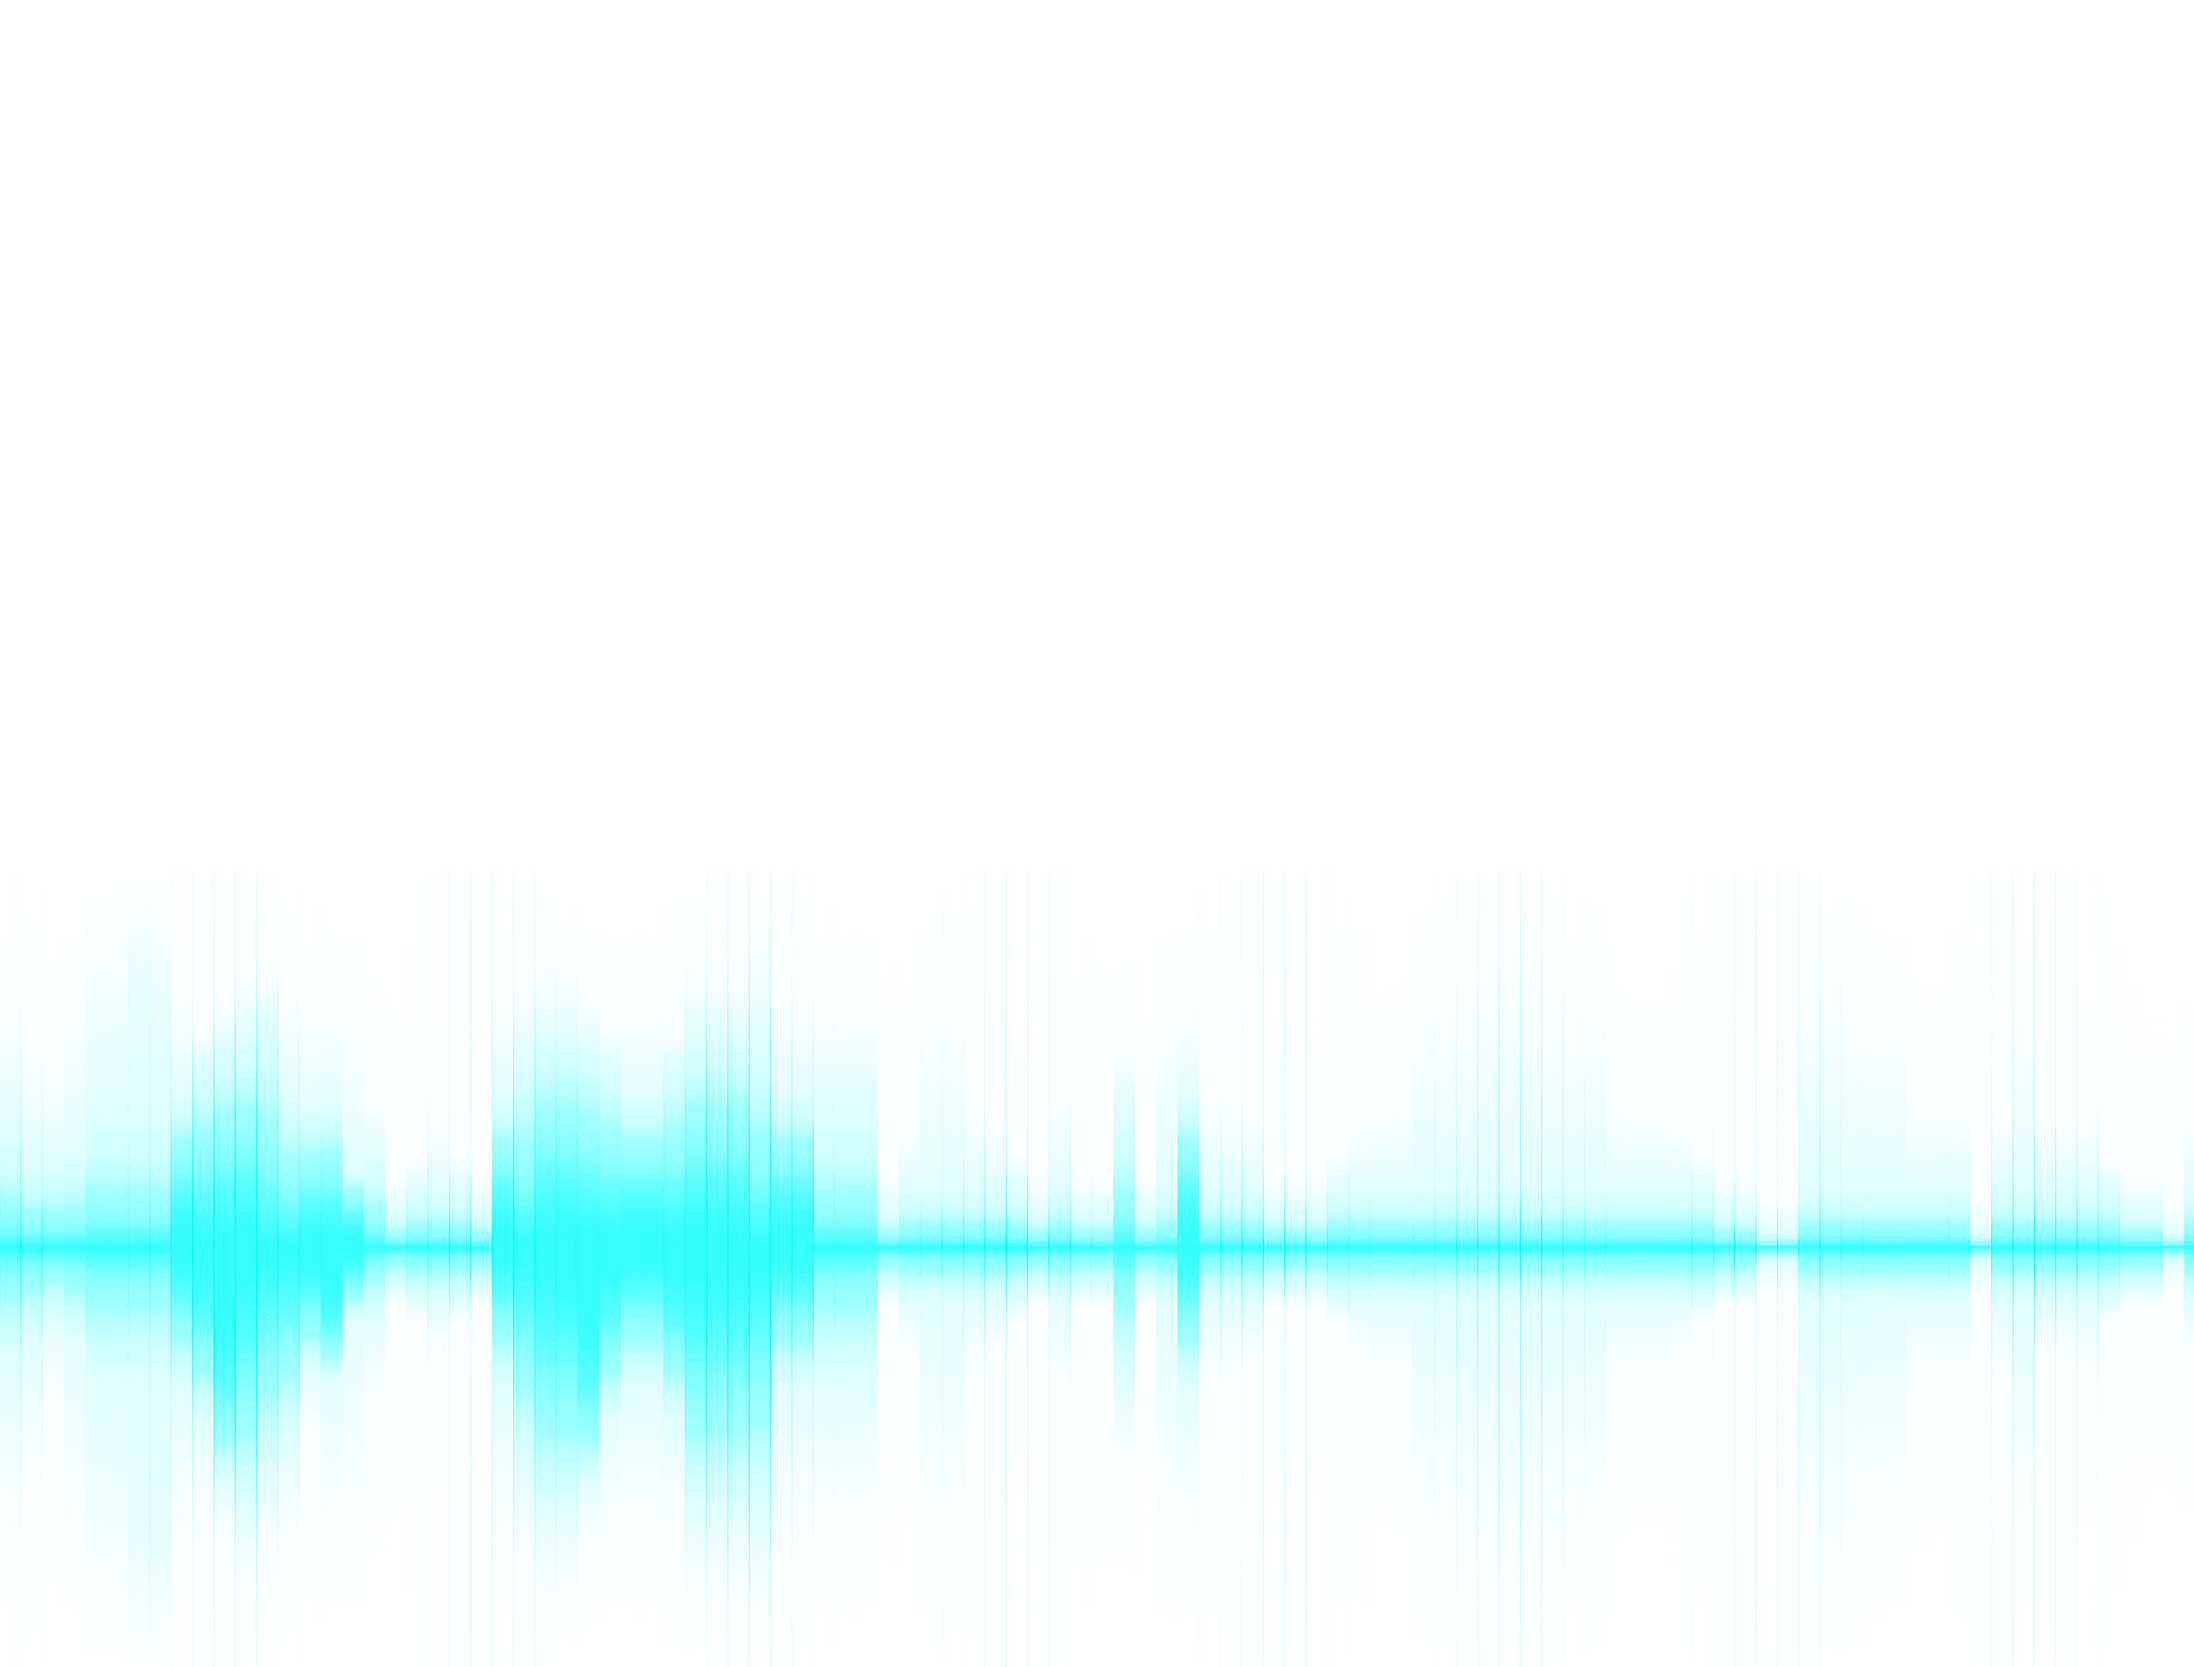
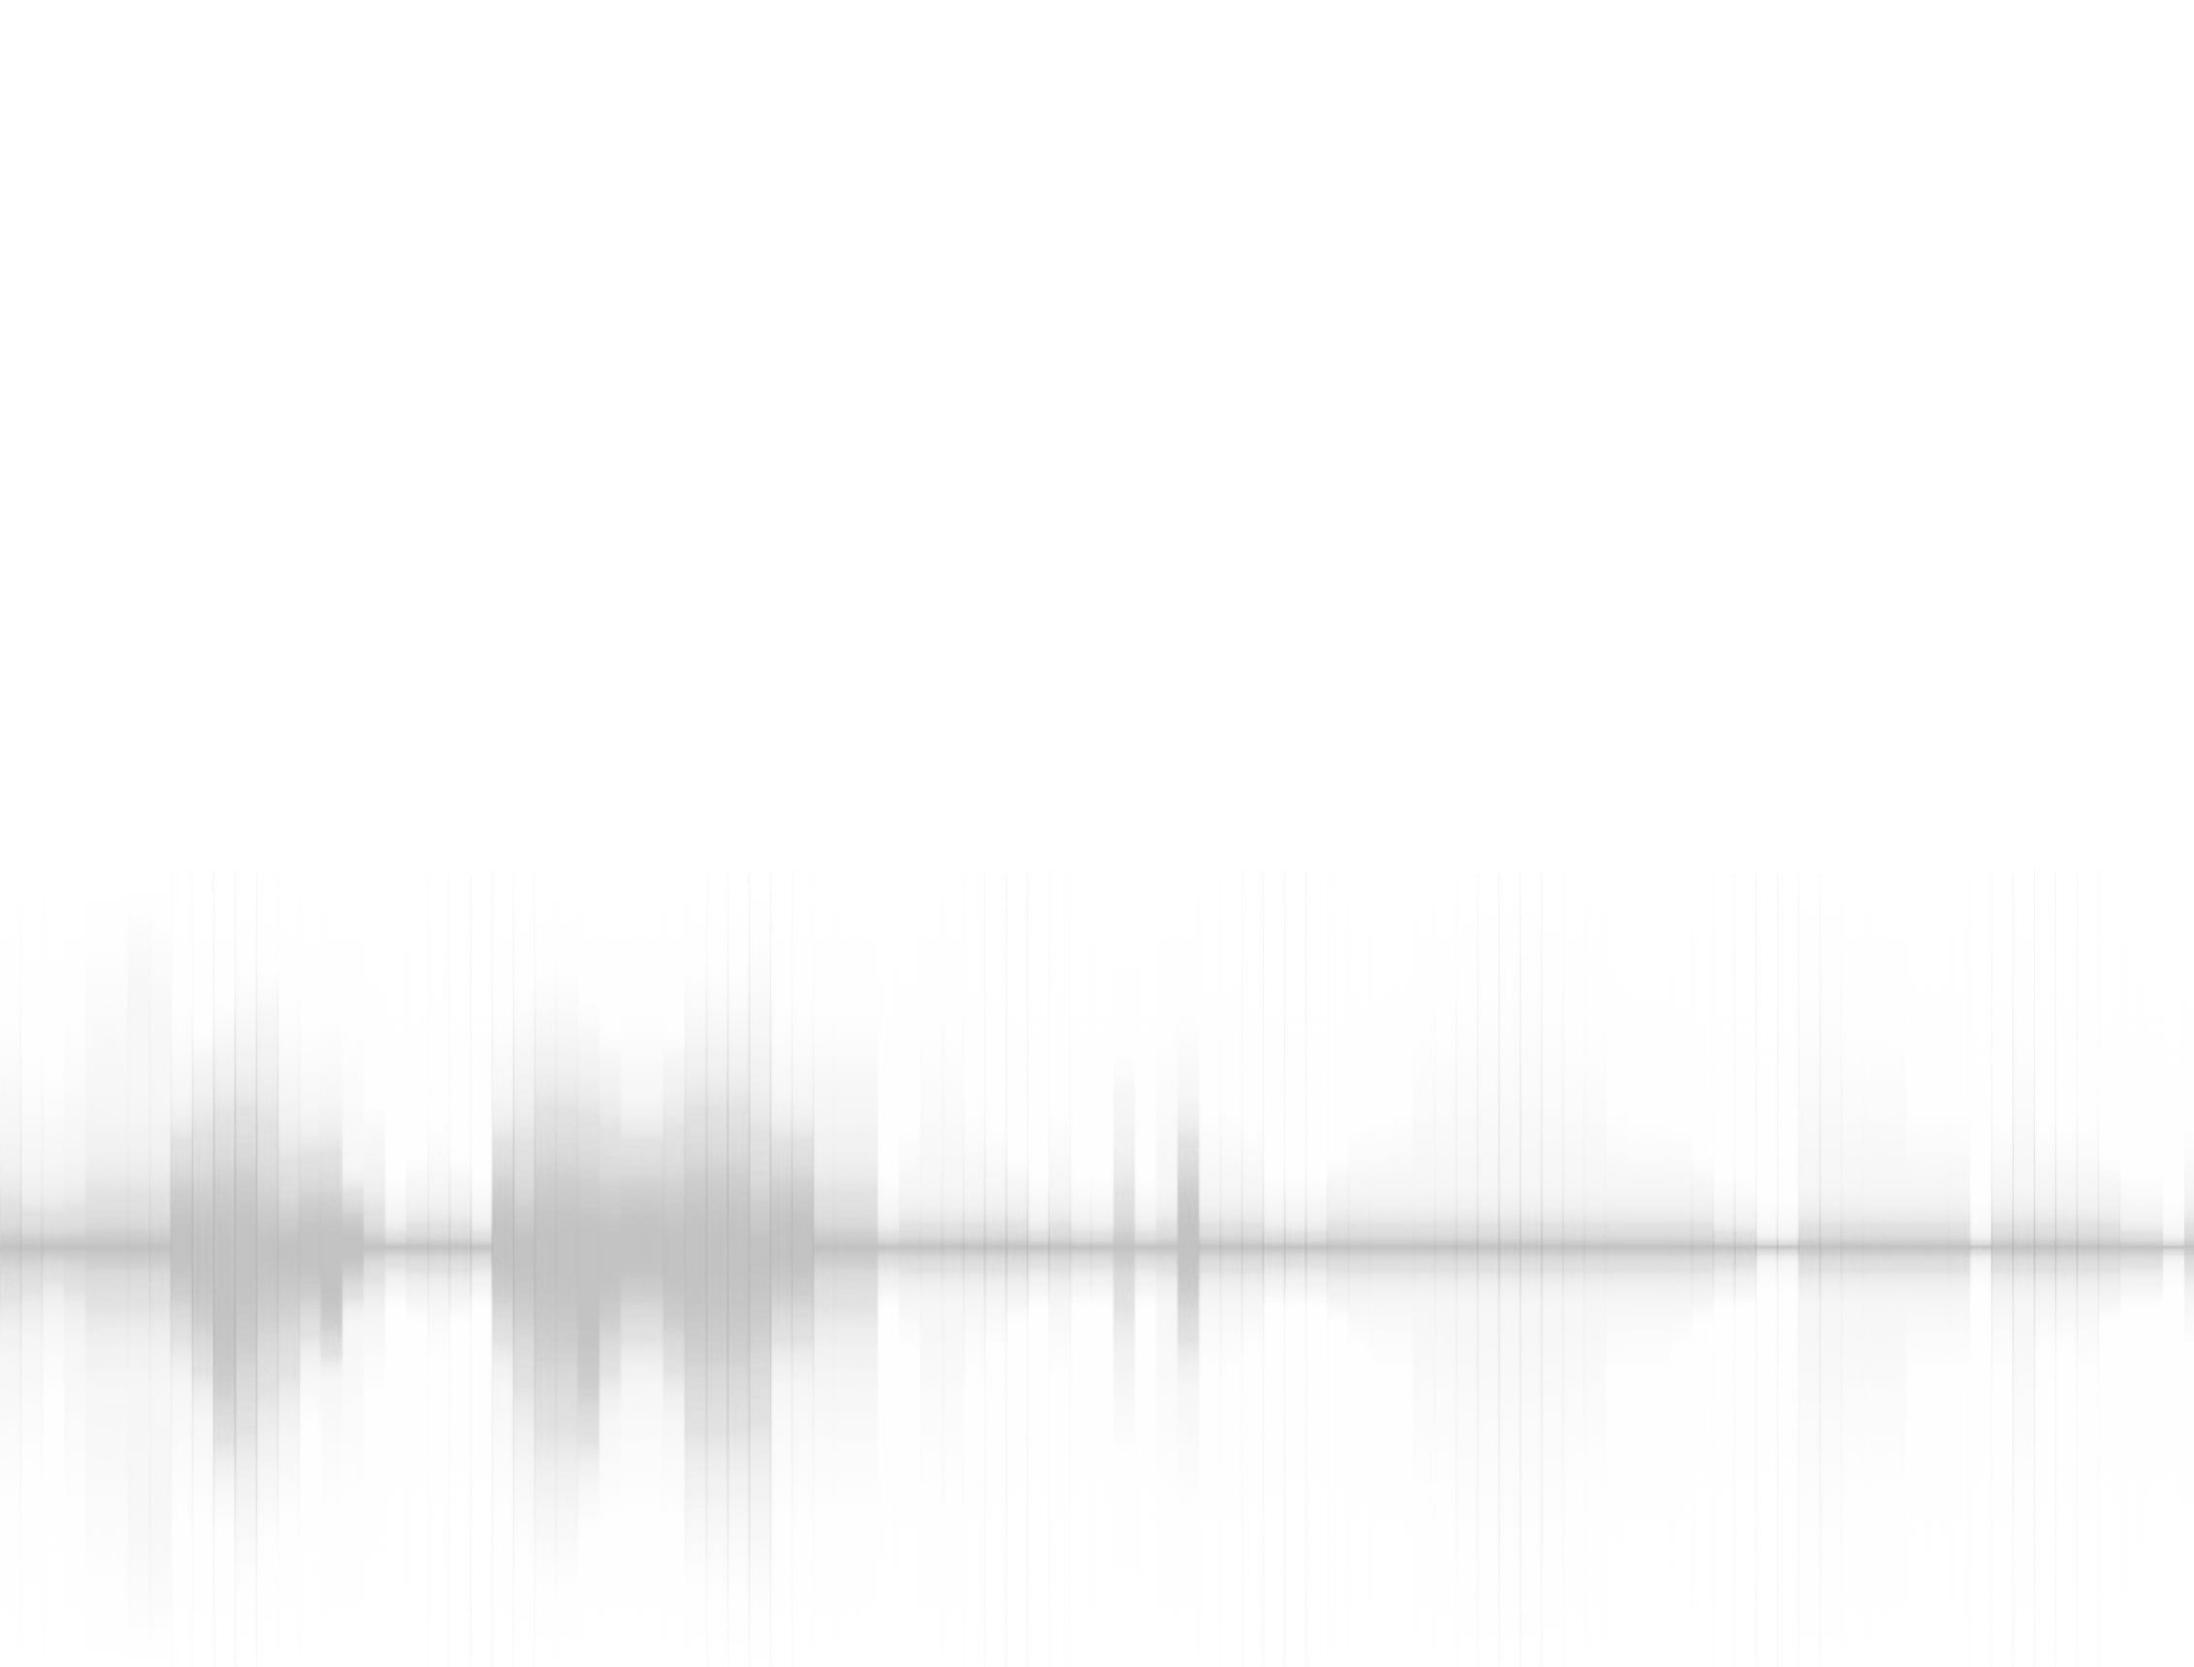
commented out wave functionality for now

Changed region(s): [[0.0, 0.6166, 1.0, 0.925]]

diff --git a/src/js/wave.js b/src/js/wave.js
@@ -1,39 +1,47 @@
+// Special thanks to this video for walking through the code: https://www.youtube.com/watch?v=IBHpSkGZtNM
 // Create a new instance of an audio object and adjust some of its properties
 var audio = new Audio();
 audio.src = 'Eulogy.mp3';
 audio.controls = true;
 audio.loop = true;
-audio.autoplay = true;
+audio.autoplay = true;  // automatically plays upon page load
+// audio.muted = true;
+
 // Establish all variables that your Analyser will use
 var canvas, ctx, source, context, analyser, fbc_array, bars, bar_x, bar_width, bar_height;
+
 // Initialize the MP3 player after the page loads all of its HTML into the window
 window.addEventListener("load", initMp3Player, false);
 function initMp3Player(){
-  document.getElementById('audio_box').appendChild(audio);
-  context = new AudioContext(); // AudioContext object instance
-  analyser = context.createAnalyser(); // AnalyserNode method
-  canvas = document.getElementById('analyser_render');
-  ctx = canvas.getContext('2d');
-  // Re-route audio playback into the processing graph of the AudioContext
-  source = context.createMediaElementSource(audio); 
-  source.connect(analyser);
-  analyser.connect(context.destination);
-  frameLooper();
+    document.getElementById('audio_box').appendChild(audio);
+    context = new AudioContext(); // AudioContext object instance
+    analyser = context.createAnalyser(); // AnalyserNode method
+    canvas = document.getElementById('analyser_render');
+    ctx = canvas.getContext('2d');
+    
+    // Re-route audio playback into the processing graph of the AudioContext
+    source = context.createMediaElementSource(audio); 
+    source.connect(analyser);
+    analyser.connect(context.destination);
+    frameLooper();
 }
+
 // frameLooper() animates any style of graphics you wish to the audio frequency
 // Looping at the default frame rate that the browser provides(approx. 60 FPS)
 function frameLooper(){
-  window.requestAnimationFrame(frameLooper);
-  fbc_array = new Uint8Array(analyser.frequencyBinCount);
-  analyser.getByteFrequencyData(fbc_array);
-  ctx.clearRect(0, 0, canvas.width, canvas.height); // Clear the canvas
-  ctx.fillStyle = '#00CCFF'; // Color of the bars
-  bars = 100;
-  for (var i = 0; i < bars; i++) {
-    bar_x = i * 3;
-    bar_width = 2;
-    bar_height = -(fbc_array[i] / 2);
-    //  fillRect( x, y, width, height ) // Explanation of the parameters below
-    ctx.fillRect(bar_x, canvas.height, bar_width, bar_height);
-  }
+    window.requestAnimationFrame(frameLooper);
+    fbc_array = new Uint8Array(analyser.frequencyBinCount);
+    analyser.getByteFrequencyData(fbc_array);
+    ctx.clearRect(0, 0, canvas.width, canvas.height); // Clear the canvas
+    ctx.fillStyle = '#3F3D3D'; // Color of the bars
+    bars = 100;
+
+    for (var i = 0; i < bars; i++) {
+        bar_x = i * 4;
+        bar_width = 2;
+        bar_height = -(fbc_array[i] / 2);
+        
+        //  fillRect( x, y, width, height )
+        ctx.fillRect(bar_x, canvas.height, bar_width, bar_height);
+    }
 }

diff --git a/src/html/index.html b/src/html/index.html
@@ -21,10 +21,12 @@
   </head>
   <body id="welcome" class="fadein">
     <main>
+        <!--
         <div id="mp3_player">
             <div id="audio_box"></div>
             <canvas id="analyser_render"></canvas>
         </div>
+        -->
         
         <div class="big-title-container">
             <img src="../../assets/img/harmony-logo-full.png" alt="logo" id="welcome-logo">
@@ -38,6 +40,6 @@
         </div>
     </main>
 
-    <script src="../js/wave.js"></script>
+    <!-- <script src="../js/wave.js"></script> -->
   </body>
 </html>

diff --git a/assets/css/style.css b/assets/css/style.css
@@ -126,7 +126,7 @@ main ul {
 }
 
 #welcome {
-    /* background-image: url("img/harmony-bg.jpg"); */
+    background-image: url("../img/harmony-bg.jpg");
     background-color: #fff;
     height: 100%;
     background-position: center;
@@ -142,11 +142,16 @@ main ul {
     align-content: center;
 }
 
+
 /* audio wave canvas styles */
+/*
 #analyser_render {
-    height: 750px;
-    margin-bottom: -750px;
+    height: 800px;
+    margin-bottom: -800px;
+    overflow: hidden;
+    border: none;
 }
+*/
 
 
 /* BEGIN TUNE-BY-EAR STYLES */

diff --git a/src/js/effects.js b/src/js/effects.js
@@ -1,3 +1,4 @@
+// fade in for welcome page
 $(document).ready(function() {
     $('.fadein').fadeIn(1500);
 });
